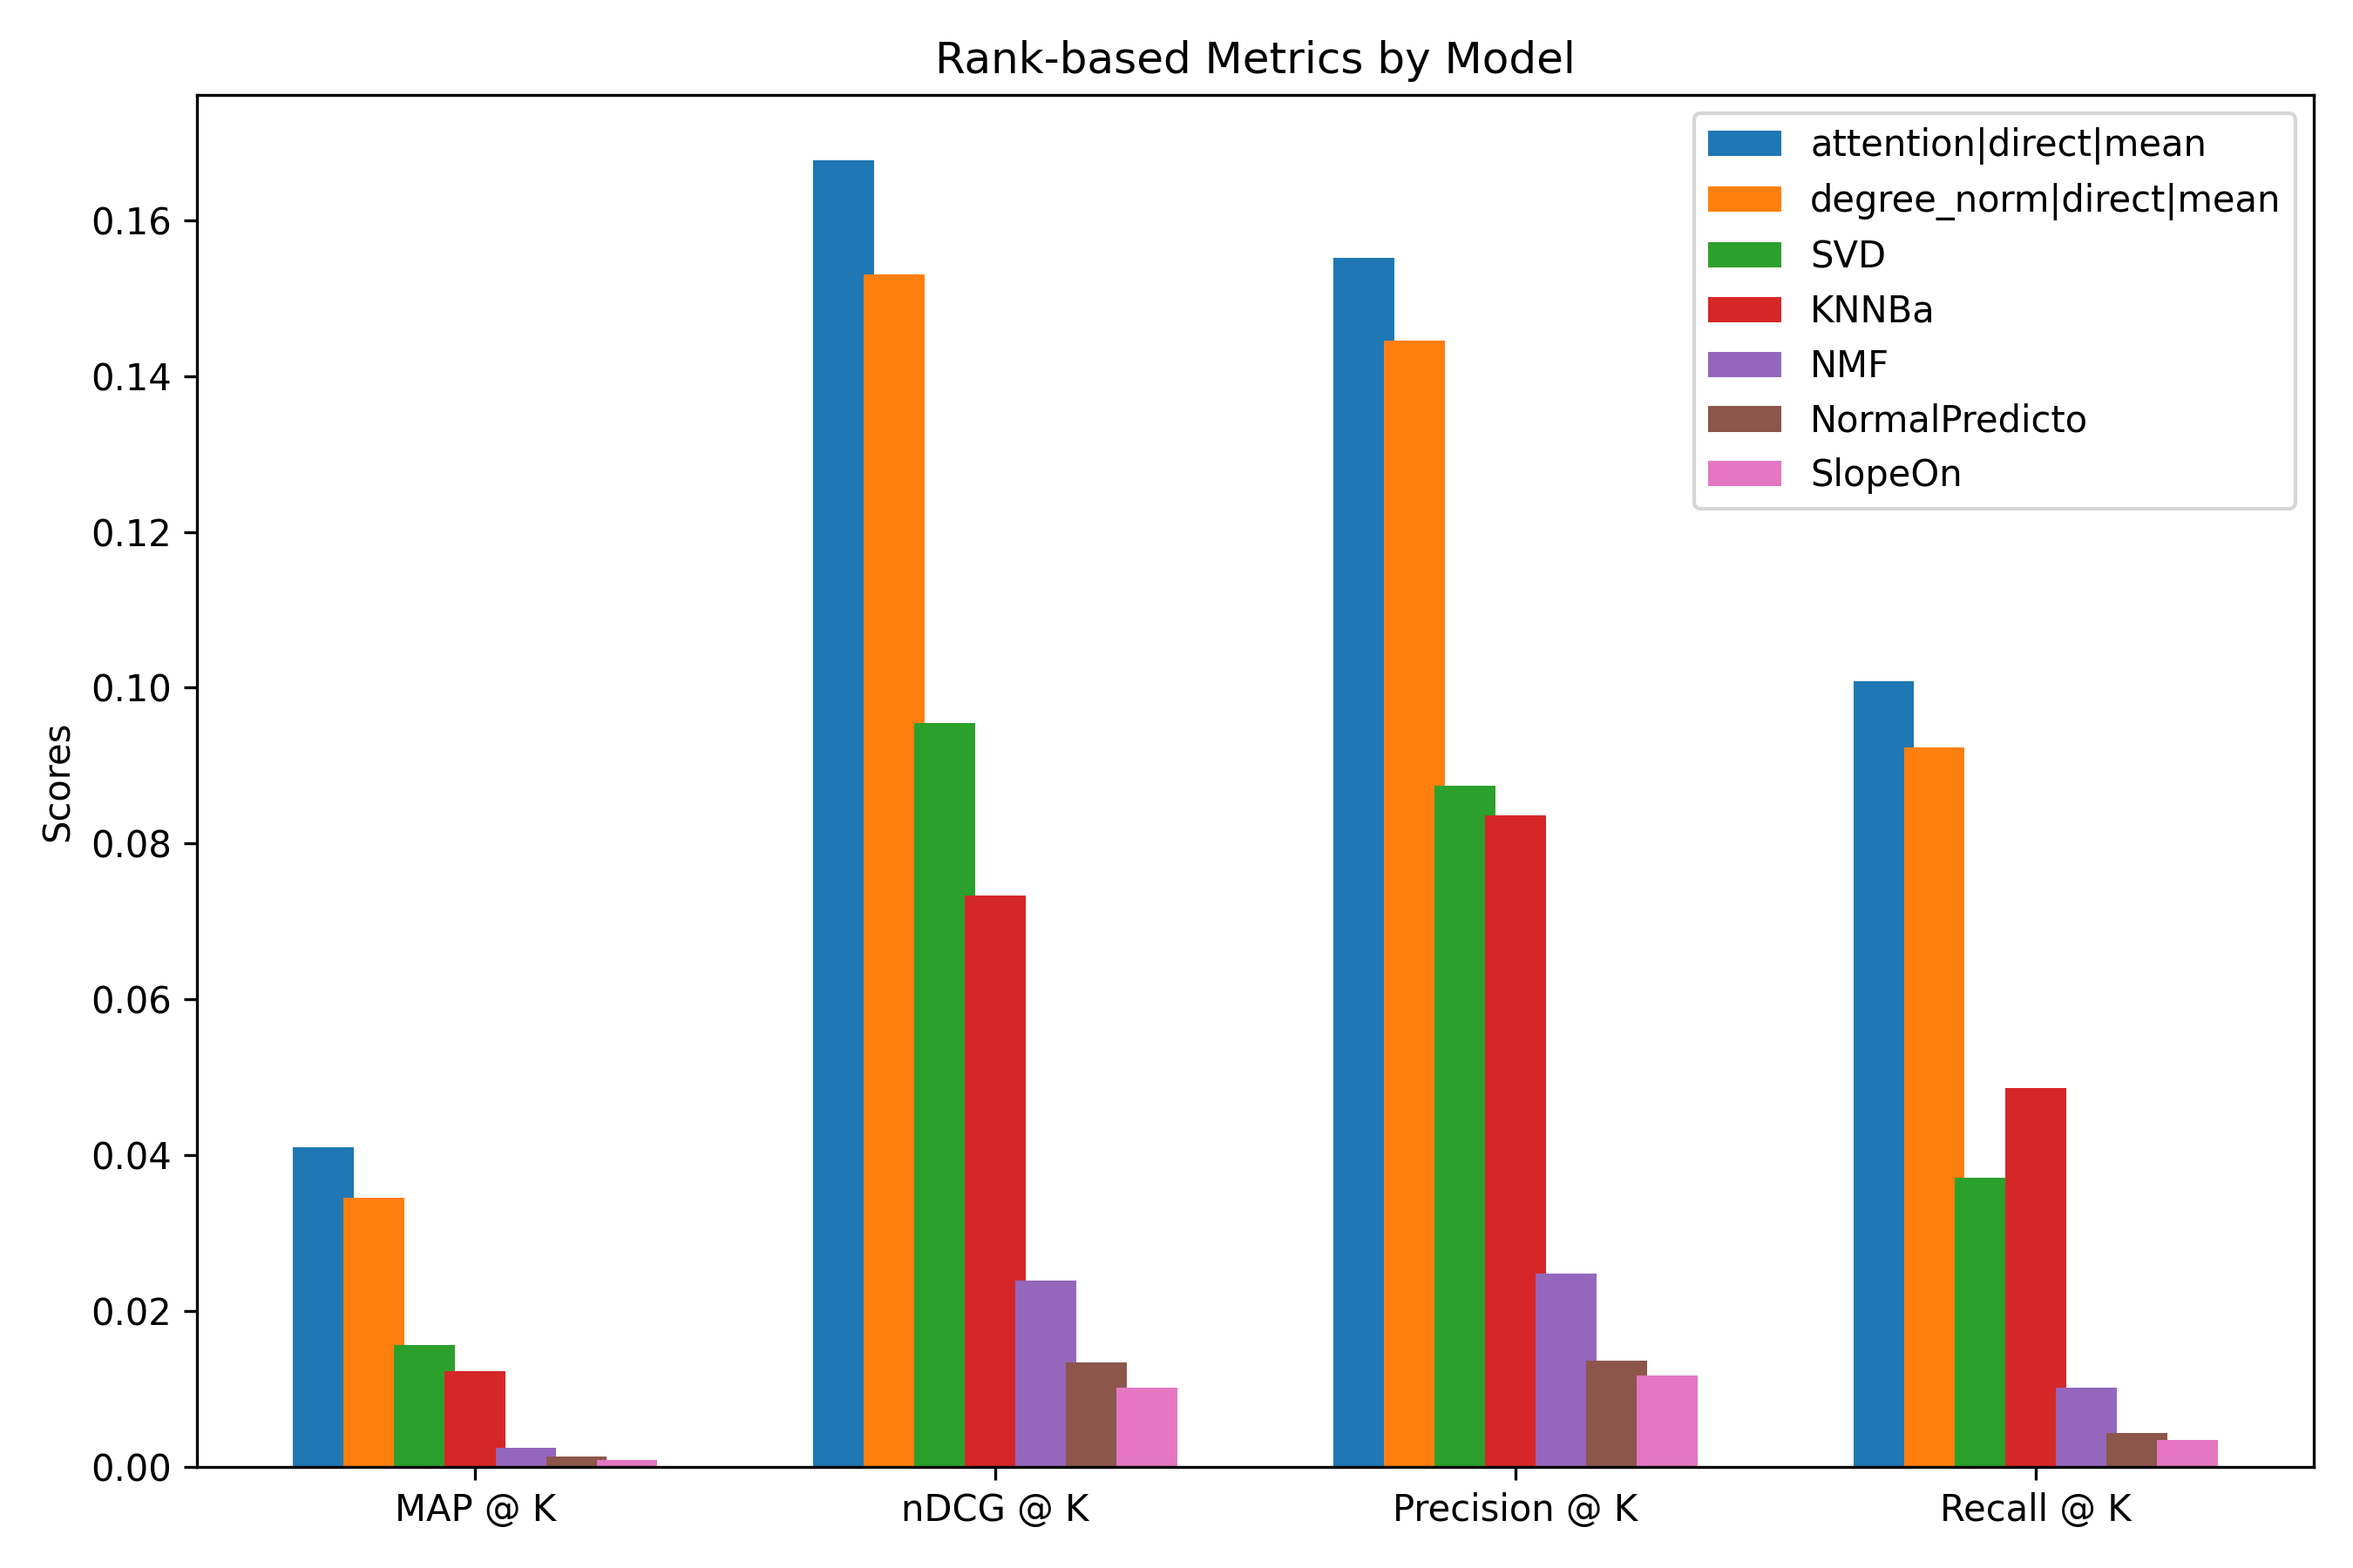
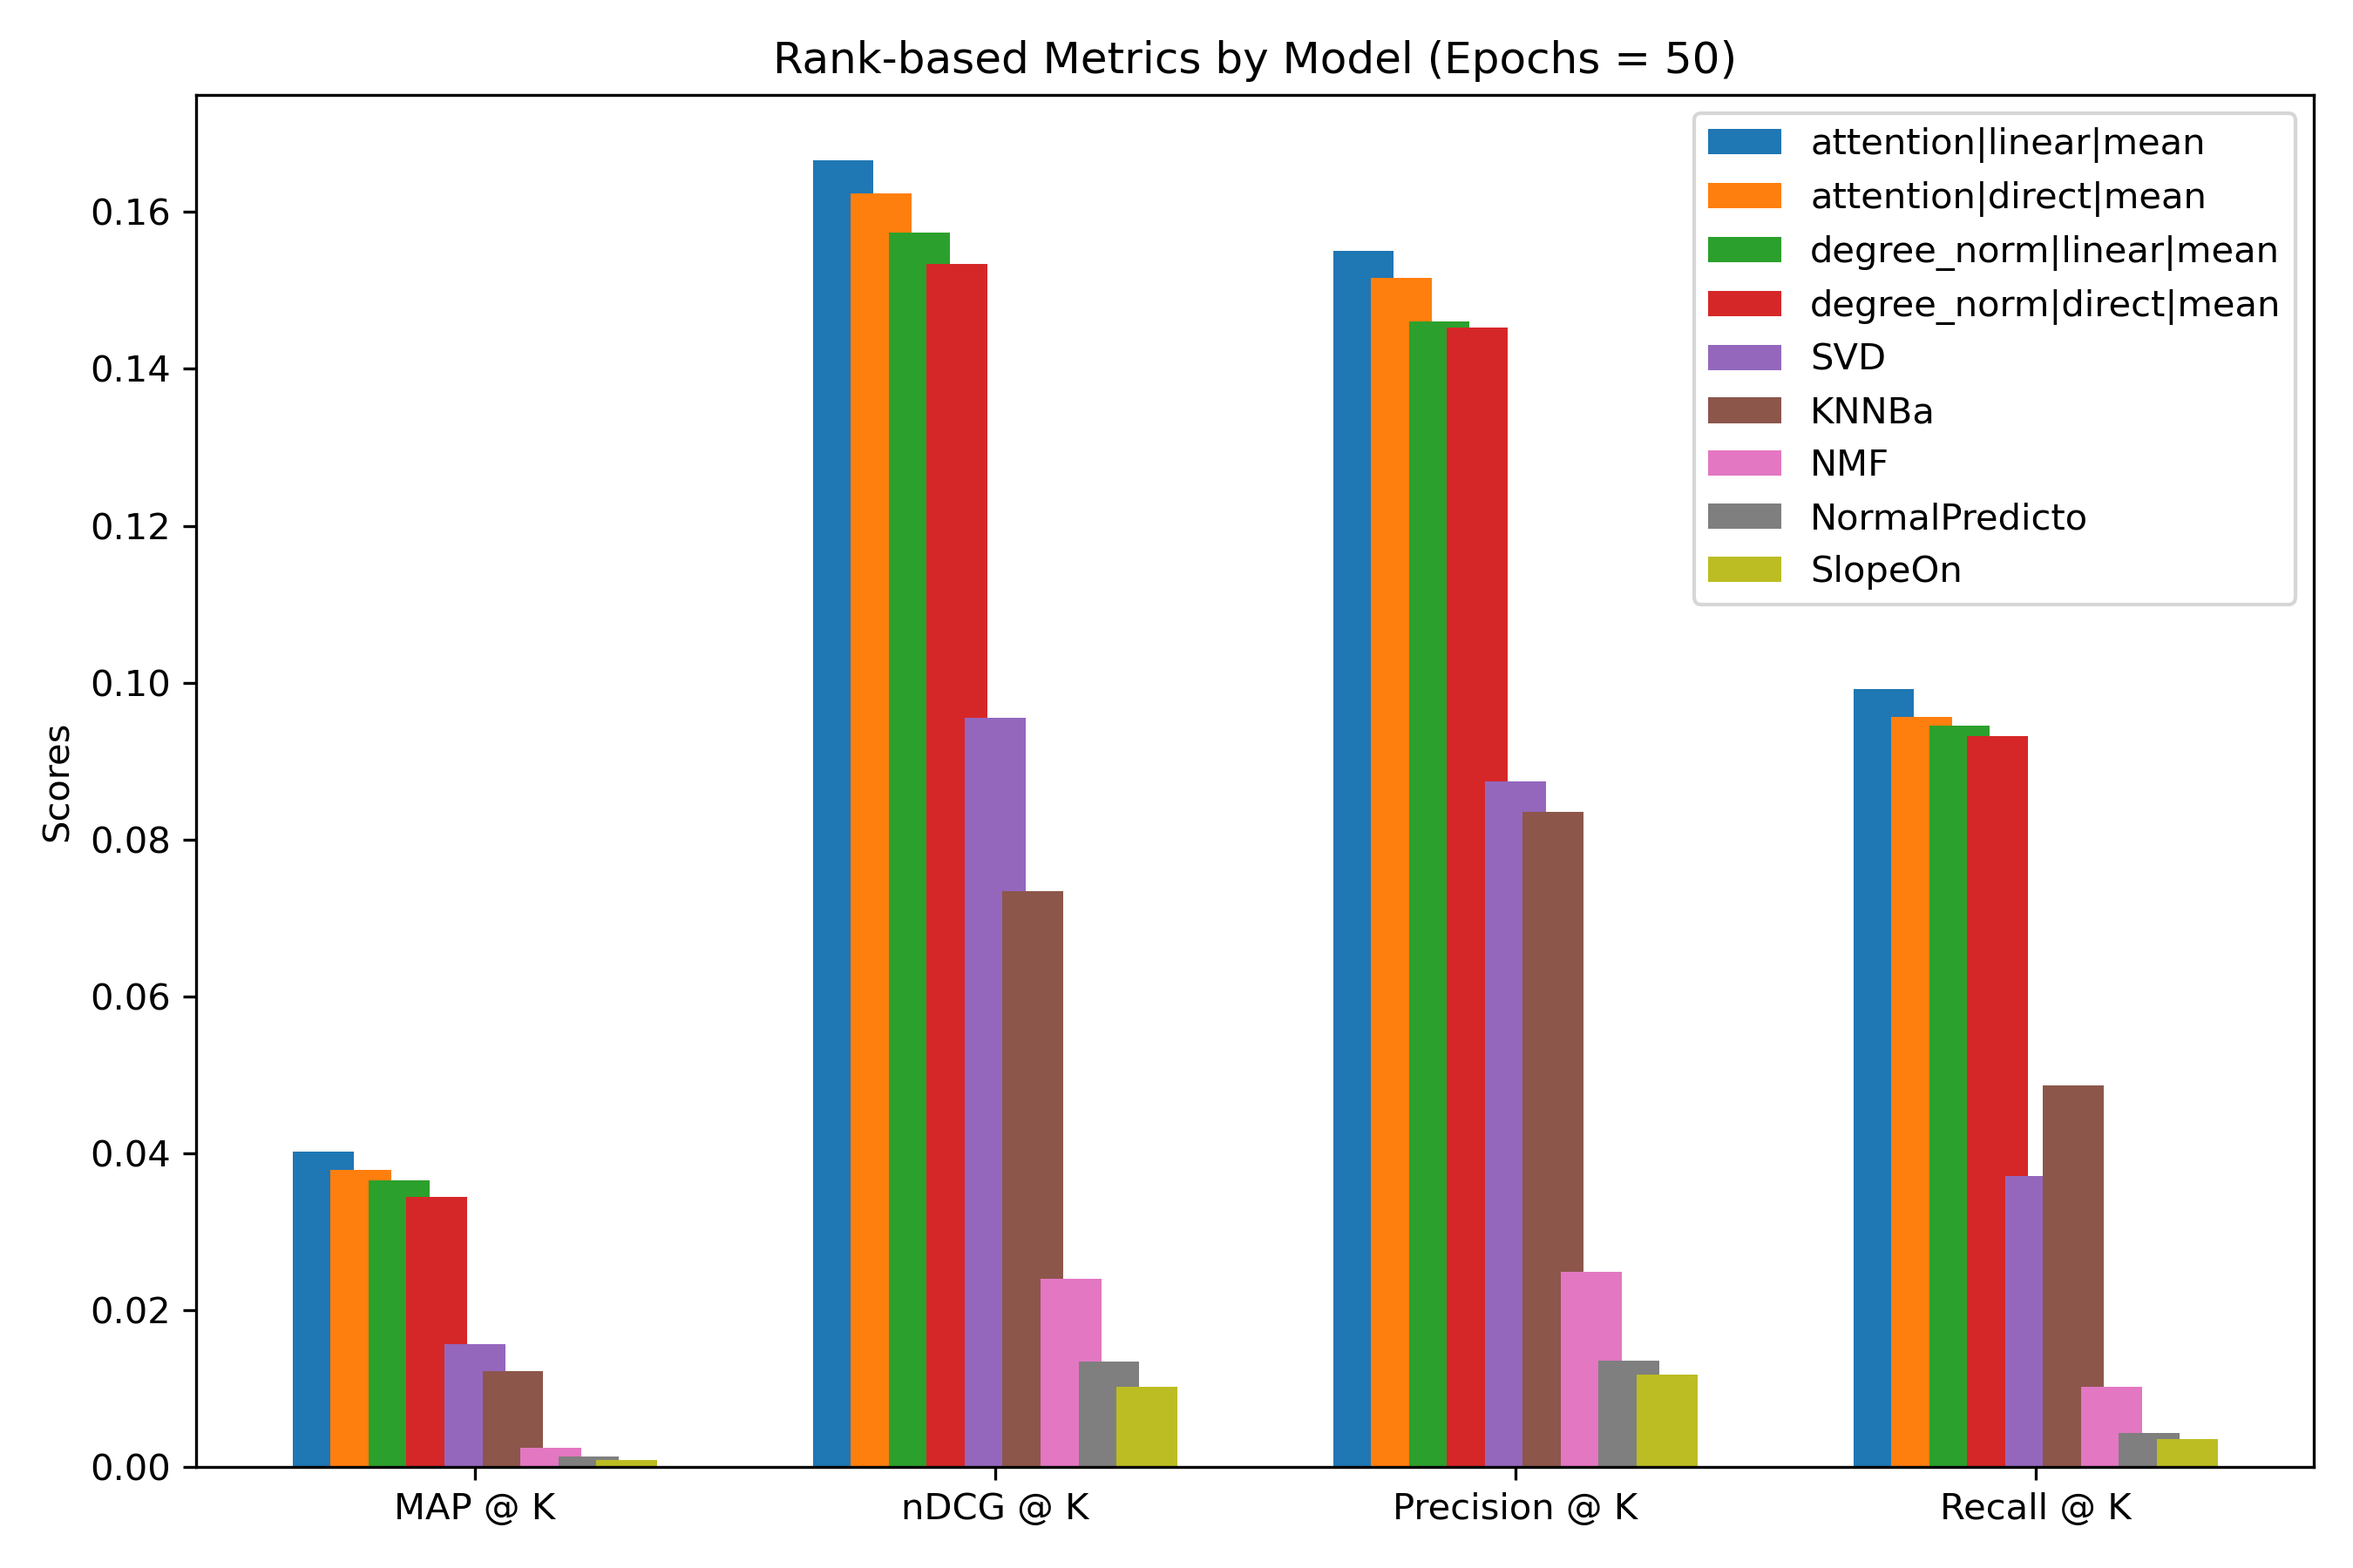
Add Linear information update to GNN

diff --git a/gnn/gnn.py b/gnn/gnn.py
@@ -116,6 +116,12 @@ class GNN(object):
         self.neg_items = tf.compat.v1.placeholder(tf.int32, shape=(None,))
 
         self.weights = self._init_weights()
+        if self.info_updater == "linear":
+            self.info_updater = tf.compat.v1.layers.Dense(
+                units=self.emb_dim, activation=tf.nn.leaky_relu, use_bias=True
+            )
+        else:
+            self.info_updater = tf.identity
 
         self.gat = GraphAttentionLayer(self.emb_dim, self.emb_dim, dropout=0, alpha=0.2)
 
@@ -199,11 +205,10 @@ class GNN(object):
         ego_embeddings = tf.concat(
             [self.weights["user_embedding"], self.weights["item_embedding"]], axis=0
         )
-        # all_embeddings = [sigmoid(ego_embeddings @ W)] # TODO
+        ego_embeddings = self.info_updater(ego_embeddings)
         all_embeddings = [ego_embeddings]
 
         for k in range(0, self.n_layers):
-            # print(f'A_hat shape: {A_hat.shape}, ego_embeddings shape: {ego_embeddings.shape}')
             if self.neighbor_aggregator == "attention":
                 ego_embeddings = self.gat(ego_embeddings, A_hat) # (2625, 64)
             elif self.neighbor_aggregator == "degree_norm":
@@ -211,9 +216,7 @@ class GNN(object):
             else:
                 raise NotImplementedError()
 
-            # TODO
-            # ego_embeddings = sigmoid(ego_embeddings @ W)
-
+            ego_embeddings = self.info_updater(ego_embeddings)
             all_embeddings += [ego_embeddings]
 
         all_embeddings = tf.stack(all_embeddings, 1) # (2625, 4, 64)

diff --git a/gnn/plot.py b/gnn/plot.py
@@ -22,6 +22,11 @@ def plot(metrics: Dict[str, Dict[str, float]], save_path=None):
     fig, ax = plt.subplots()
     fig.set_size_inches(9,6)
     rects = []
+    
+    # ensures all models were trained for the same number of epochs
+    unique_epochs = set(model_metrics['epochs'] for model_metrics in metrics.values())
+    assert len(unique_epochs) == 1
+    unique_epochs = unique_epochs.pop()
 
     metrics = list(metrics.items())
     metrics.sort(key=lambda x:-x[1]['ndcg'])
@@ -40,7 +45,7 @@ def plot(metrics: Dict[str, Dict[str, float]], save_path=None):
         )
     
     ax.set_ylabel('Scores')
-    ax.set_title('Rank-based Metrics by Model')
+    ax.set_title(f'Rank-based Metrics by Model (Epochs = {unique_epochs})')
     ax.set_xticks(x, labels)
     ax.legend()
     

diff --git a/gnn/eval.py b/gnn/eval.py
@@ -80,7 +80,8 @@ def compute_metrics(params, test, eval_results, dump_dir=None):
         print(f'************************************************************')
         
         metrics[name] = {
-            'map': eval_map, 'ndcg': eval_ndcg, 'precision': eval_precision, 'recall': eval_recall
+            'map': eval_map, 'ndcg': eval_ndcg, 'precision': eval_precision, 'recall': eval_recall,
+            'epochs': params.epochs
         }
 
         with open(f'{dump_dir}/{name}.metrics', 'wb') as f:
